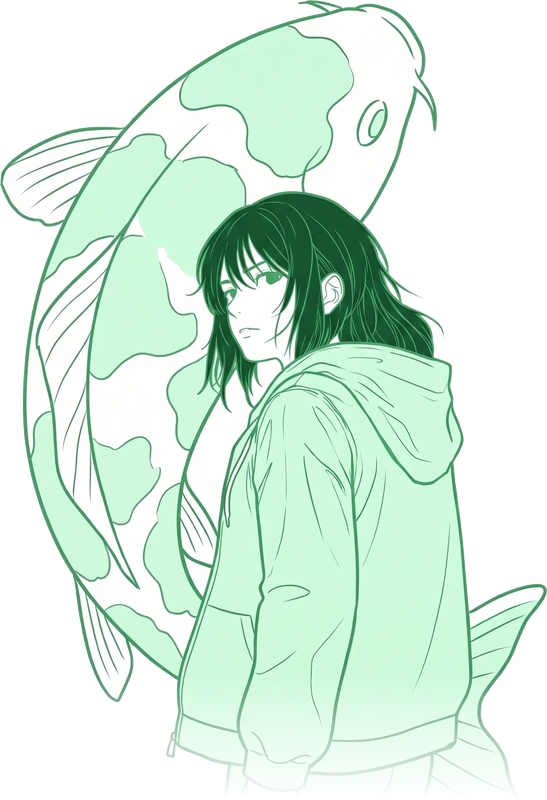
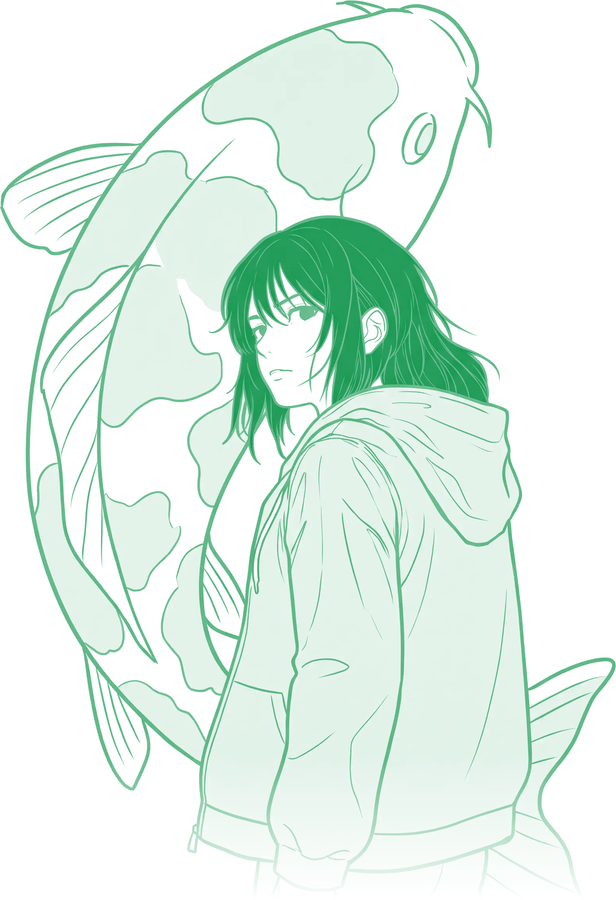
히어로 캐릭터: 흰색 투명화, 단일 초록 명암으로 배경과 어우러지게 / 야구 소년 글러브·팔 수정

diff --git a/index.html b/index.html
@@ -1640,7 +1640,7 @@ nav .logo, .hero-wordmark {
     .nw-ai { position: absolute; z-index: 0; pointer-events: none; width: auto; display: block; }
     .nw-ai-boy { left: calc(50% + 95px); top: 37px; height: 230px; }
     .nw-ai-glasses { left: calc(50% + 250px); top: 30px; height: 225px; }
-    .nw-ai-baseball { left: calc(50% + 445px); top: 6px; height: 190px; z-index: 1; }
+    .nw-ai-baseball { left: calc(50% + 440px); top: 8px; height: 180px; z-index: 1; }
     .nw-ai-girl { left: calc(50% + 430px); bottom: 0; height: 340px; }
     @media (max-width: 1359px) { .nw-ai-baseball, .nw-ai-girl { display: none; } }
     @media (max-width: 1100px) { .nw-ai { display: none; } }
